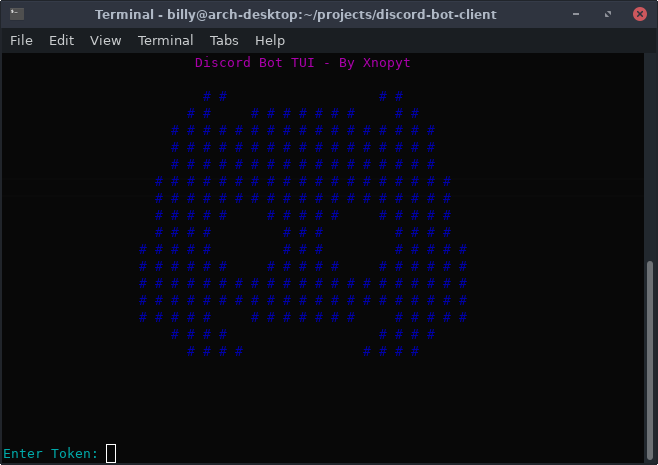
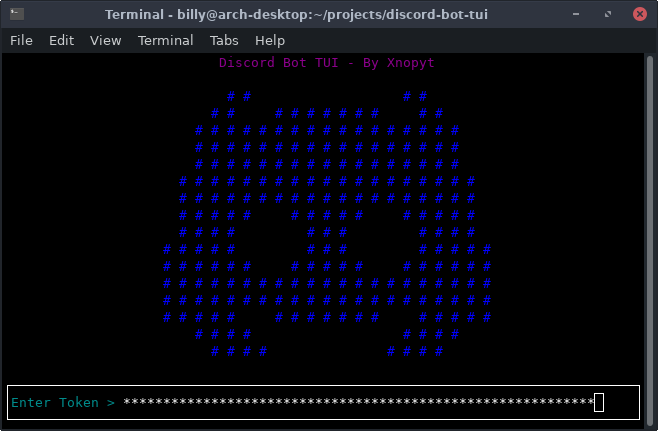
Update main screen

diff --git a/client.go b/client.go
@@ -53,6 +53,7 @@ func init() {
 	t.SetStyle("label.green", tui.Style{Bg: tui.ColorDefault, Fg: tui.ColorGreen})
 	t.SetStyle("label.cyan", tui.Style{Bg: tui.ColorDefault, Fg: tui.ColorCyan})
 	t.SetStyle("label.yellow", tui.Style{Bg: tui.ColorDefault, Fg: tui.ColorYellow})
+	t.SetStyle("label.blue", tui.Style{Bg: tui.ColorDefault, Fg: tui.ColorBlue})
 }
 
 func callClear() {
@@ -64,28 +65,67 @@ func callClear() {
 
 func main() {
 	callClear()
-	color.Magenta.Print("      			Discord Bot TUI - By Xnopyt\n\n")
-	color.Blue.Println("		         # #                   # #")
-	color.Blue.Println("		       # #     # # # # # # #     # #")
-	color.Blue.Println("		     # # # # # # # # # # # # # # # # #")
-	color.Blue.Println("		     # # # # # # # # # # # # # # # # #")
-	color.Blue.Println("		     # # # # # # # # # # # # # # # # #")
-	color.Blue.Println("		   # # # # # # # # # # # # # # # # # # #")
-	color.Blue.Println("		   # # # # # # # # # # # # # # # # # # #")
-	color.Blue.Println("		   # # # # #     # # # # #     # # # # #")
-	color.Blue.Println("		   # # # #         # # #         # # # #")
-	color.Blue.Println("		 # # # # #         # # #         # # # # #")
-	color.Blue.Println("		 # # # # # #     # # # # #     # # # # # #")
-	color.Blue.Println("		 # # # # # # # # # # # # # # # # # # # # #")
-	color.Blue.Println("		 # # # # # # # # # # # # # # # # # # # # #")
-	color.Blue.Println("		 # # # # #     # # # # # # #     # # # # #")
-	color.Blue.Println("		     # # # #                   # # # #")
-	color.Blue.Println("		       # # # #               # # # #")
-	fmt.Print("\n\n\n\n\n")
-	reader := bufio.NewReader(os.Stdin)
-	color.Cyan.Print("Enter Token: ")
-	text, _ := reader.ReadString('\n')
-	token := strings.TrimSuffix(text[:len(text)-1], "\r")
+	var token string
+	logol := tui.NewLabel("        # #                   # #\n      # #     # # # # # # #     # #\n    # # # # # # # # # # # # # # # # #\n    # # # # # # # # # # # # # # # # #\n    # # # # # # # # # # # # # # # # #\n  # # # # # # # # # # # # # # # # # # #\n  # # # # # # # # # # # # # # # # # # #\n  # # # # #     # # # # #     # # # # #\n  # # # #         # # #         # # # #\n# # # # #         # # #         # # # # #\n# # # # # #     # # # # #     # # # # # #\n# # # # # # # # # # # # # # # # # # # # #\n# # # # # # # # # # # # # # # # # # # # #\n# # # # #     # # # # # # #     # # # # #\n    # # # #                   # # # #\n      # # # #               # # # #\n\n")
+	logol.SetStyleName("blue")
+	titlel := tui.NewLabel("Discord Bot TUI - By Xnopyt\n")
+	titlel.SetStyleName("magenta")
+	logoBox := tui.NewHBox(
+		tui.NewSpacer(),
+		logol,
+		tui.NewSpacer(),
+	)
+	logoBox.SetSizePolicy(tui.Maximum, tui.Maximum)
+	titleBox := tui.NewHBox(
+		tui.NewSpacer(),
+		titlel,
+		tui.NewSpacer(),
+	)
+	logo := tui.NewVBox(
+		titleBox,
+		logoBox,
+		tui.NewSpacer(),
+	)
+	input := tui.NewEntry()
+	input.SetFocused(true)
+	input.SetSizePolicy(tui.Expanding, tui.Maximum)
+	input.SetEchoMode(tui.EchoModePassword)
+
+	tokenText := tui.NewLabel("Enter Token > ")
+	tokenText.SetStyleName("cyan")
+	tokenText.SetSizePolicy(tui.Minimum, tui.Minimum)
+
+	inputBox := tui.NewHBox(tokenText, input)
+	inputBox.SetBorder(true)
+	inputBox.SetSizePolicy(tui.Expanding, tui.Maximum)
+
+	menu := tui.NewVBox(
+		logo,
+		inputBox,
+		tui.NewSpacer(),
+	)
+
+	mui, err := tui.New(menu)
+	if err != nil {
+		log.Fatal(err)
+	}
+
+	input.OnSubmit(func(e *tui.Entry) {
+		token = e.Text()
+		mui.Quit()
+	})
+
+	mui.SetTheme(t)
+
+	mui.SetKeybinding("Esc", func() {
+		mui.Quit()
+		callClear()
+		os.Exit(0)
+	})
+
+	if err := mui.Run(); err != nil {
+		log.Fatal(err)
+	}
 	callClear()
 	color.Magenta.Println("Connecting to Discord....")
 	s, err := discordgo.New("Bot " + token)
